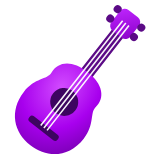
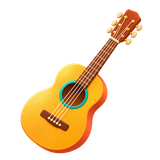
Icônes de Mégane : Jeux vidéo, Musique, Revues, Instruments

Changed region(s): [[0.0938, 0.0312, 0.9375, 0.9688]]

diff --git a/accueil.html b/accueil.html
@@ -402,8 +402,7 @@
     'Culture': 'img/categories/v2/culture.png',
     'Autres': 'img/categories/v2/autres.png',
     'Jeux': 'img/categories/v2/jeux.png',
-    // Icônes provisoires (26/11/2026) en attendant celles de Mégane.
-    // Icônes provisoires (Twemoji, licence CC-BY) en attendant celles de Mégane.
+    // Icônes de Mégane (26/11/2026).
     'Jeux vidéo': 'img/categories/v2/jeux-video.png',
     'Musique': 'img/categories/v2/musique.png',
     'Revues': 'img/categories/v2/revues.png',
